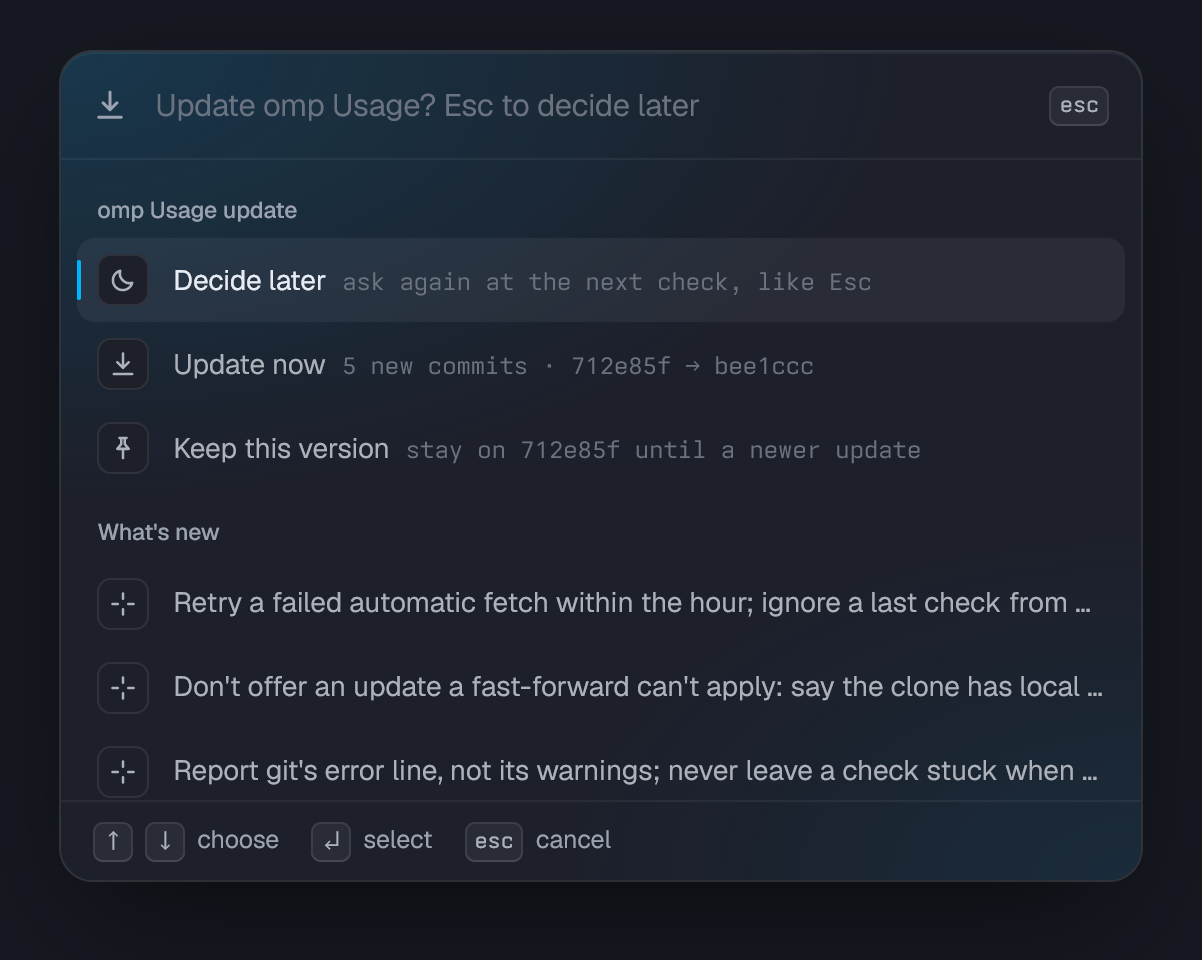
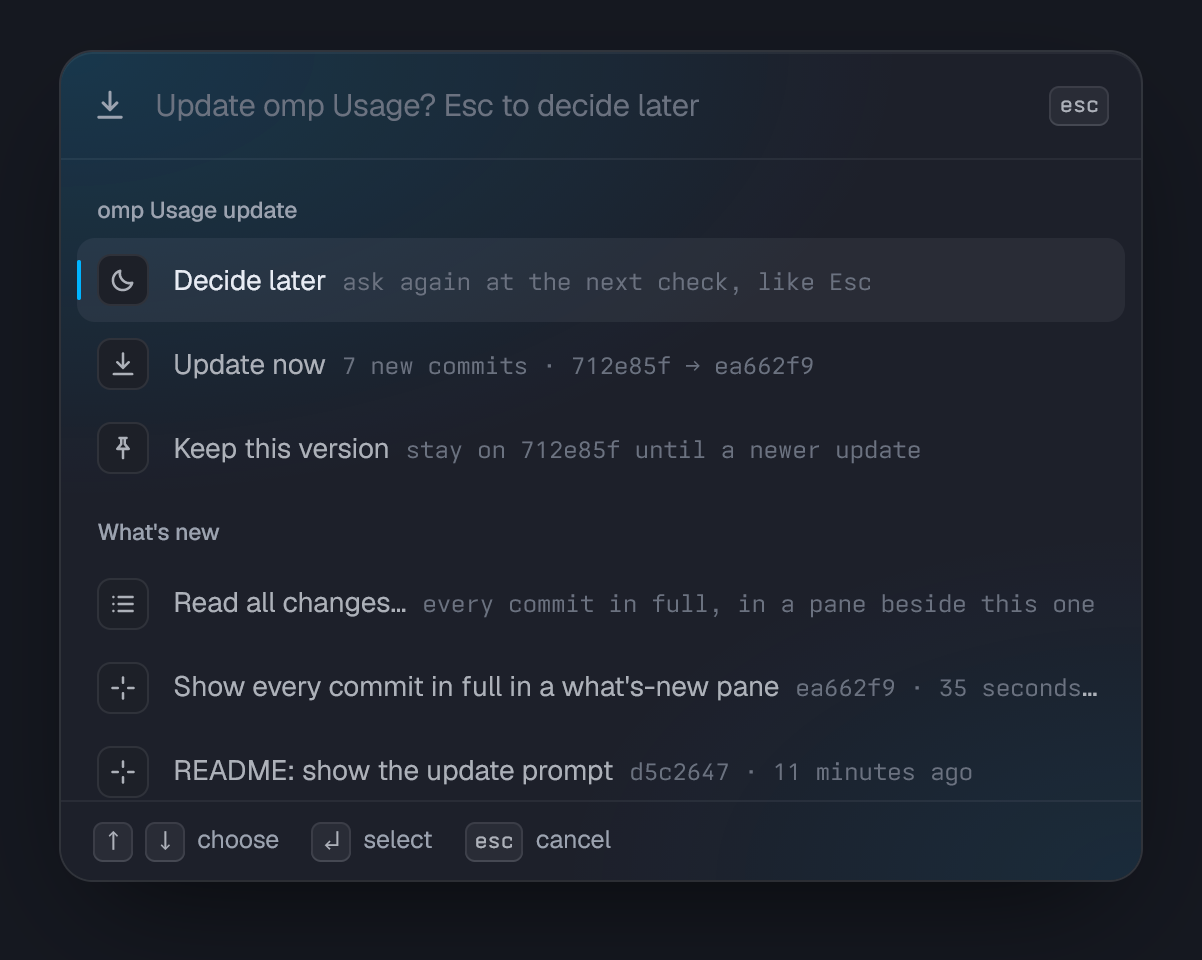
README: show the what's-new pane and the prompt's Read all changes row

diff --git a/README.md b/README.md
@@ -169,7 +169,7 @@ after that, it fetches your clone's branch from its remote once 6 hours have pas
 hour, when the last one couldn't reach the remote). When there are new commits, a picker asks what to do and
 lists them under **What's new**, newest first, one line each (the newest 15, then a row for any earlier ones):
 
-![The update prompt: Decide later, Update now (6 new commits) and Keep this version, then Read all changes… and the new commits under What's new](docs/images/update-prompt.png)
+![The update prompt: Decide later, Update now (7 new commits, 712e85f to ea662f9) and Keep this version, then Read all changes… and the new commits under What's new](docs/images/update-prompt.png)
 
 | Choice | What it does |
 | --- | --- |
@@ -184,7 +184,7 @@ web (for a GitHub-style remote). The newest 100 show there, then a link to compa
 **Keep this version** and **Close** sit in its bottom bar and do what the picker's rows do; a pane left open across
 a plugin reload checks again when you click one, rather than act on what it showed.
 
-![The what's-new pane beside a terminal: each commit's full subject, hash, age, author and web link, a commit message with a bulleted list, and Update now, Keep this version and Close in the bottom bar](docs/images/whats-new-pane.png)
+![The what's-new pane: each commit's full subject, hash, age, author and web link, a commit message with a bulleted list, and Update now, Keep this version and Close in the bottom bar](docs/images/whats-new-pane.png)
 
 Check by hand at any time with **omp Usage: Check for updates…** in the palette (it also offers a version you
 kept). To stop the automatic checks, pick **Check for updates automatically** in **omp Usage: Settings…**; pick
